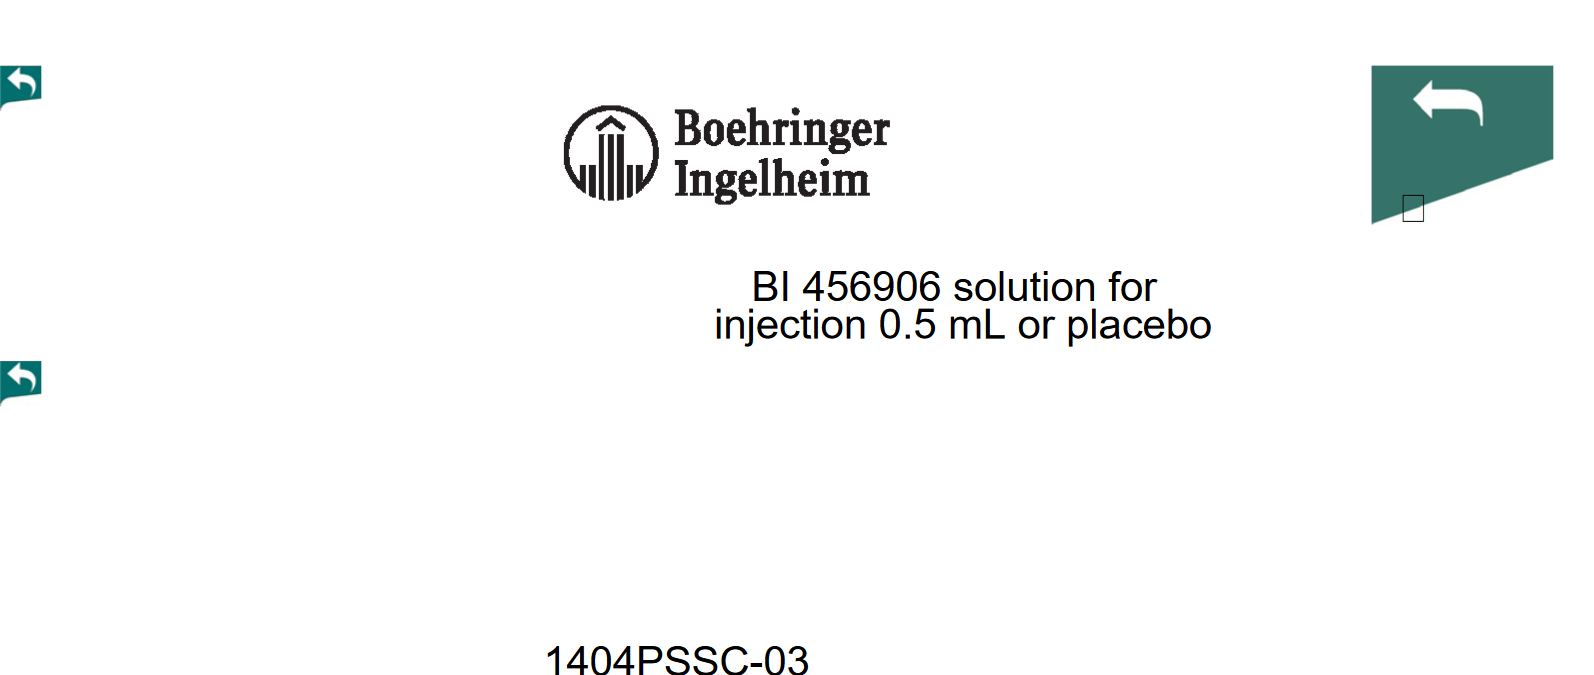
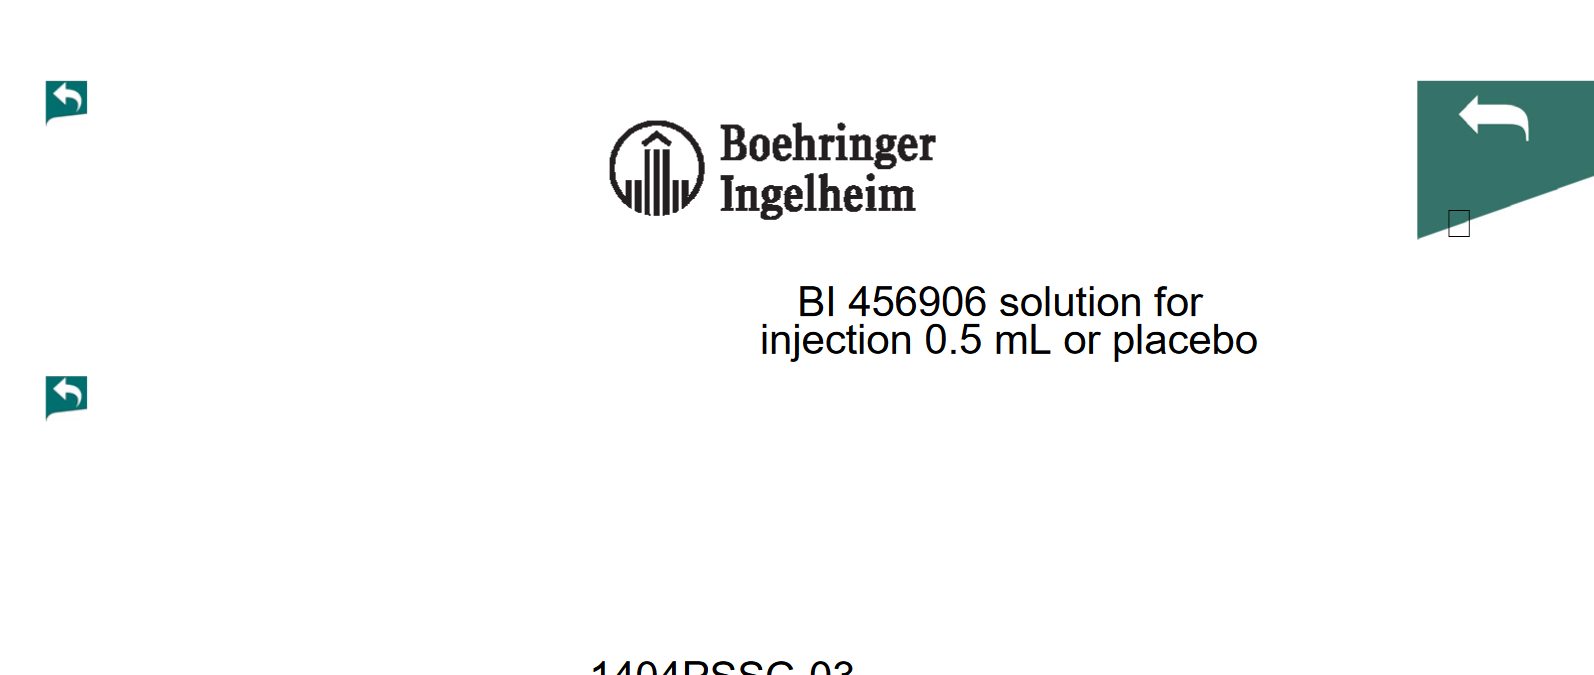
Render crop box from (0,0) with elements positioned relative to crop box
- Use crop box bounds for positioning (not element bounds)
- Elements positioned relative to crop box origin
- Image dimensions match crop box: 1594x675 pixels (382.67 x 162.23 pt)
- Crop box rendered from (0,0) with proper spacing
- All content visible within crop box area

diff --git a/src/OCRAnalysis.cpp b/src/OCRAnalysis.cpp
@@ -2348,22 +2348,18 @@ OCRAnalysis::renderElementsToPNG(const PDFElements &elements,
       }
     }
 
-    // Use element bounds for rendering offset (to position at 0,0)
-    // But calculate dimensions to match crop box height
-    if (renderMinX != std::numeric_limits<double>::max()) {
-      minX = renderMinX;  // Adjust X to remove left margin
-      minY = renderMinY;  // Adjust Y to remove top margin
-      
-      std::cerr << "DEBUG: Element bounds for positioning: ("
-                << minX << ", " << minY << ")" << std::endl;
-      std::cerr << "DEBUG: Crop box: (" << cropBoxMinX << ", " << cropBoxMinY 
-                << ") to (" << cropBoxMaxX << ", " << cropBoxMaxY << ")" << std::endl;
-    }
-    
-    // Calculate dimensions: use crop box width, but height from crop box top to element bottom
+    // Use crop box bounds for positioning (elements relative to crop box)
+    // Crop box rendered from (0,0) with its full dimensions
+    minX = cropBoxMinX;
+    minY = cropBoxMinY;
+
+    std::cerr << "DEBUG: Using crop box for positioning and dimensions: ("
+              << minX << ", " << minY << ") to (" << cropBoxMaxX << ", "
+              << cropBoxMaxY << ")" << std::endl;
+
+    // Use crop box dimensions for image size
     const double margin = 0.0;
     double pageWidthPt = cropBoxMaxX - cropBoxMinX;
-    // Height: from crop box minY to crop box maxY (full crop box height)
     double pageHeightPt = cropBoxMaxY - cropBoxMinY;
 
     // Convert to pixels based on DPI (72 points = 1 inch)
